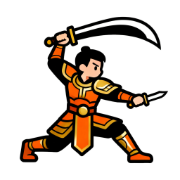
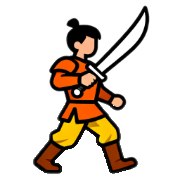
feat(web): 刀兵单刀立绘与砍击朝向/节奏修正
重做人类单手持刀立绘（哑光布甲）；砍击按左右定柄位与锋刃朝向，刀形收细并加快挥砍。

diff --git a/web/src/render.ts b/web/src/render.ts
@@ -497,7 +497,7 @@ function drawCurvedWhip(
   ctx.restore();
 }
 
-/** 弯刀：白刃 + 金护手 + 黑柄 + 金球；沿 +x 出尖，刃背向上弯 */
+/** 弯刀：白刃 + 金护手 + 黑柄 + 金球；沿 +x 出尖、柄在 -x；外凸锋刃在 +y（配合 scale(1,hand) 对齐劈砍前进侧） */
 function drawCurvedDao(ctx: CanvasRenderingContext2D, s: number, alpha: number) {
   if (alpha <= 0.02) return;
   const tipX = s * 1.02;
@@ -508,24 +508,24 @@ function drawCurvedDao(ctx: CanvasRenderingContext2D, s: number, alpha: number) 
   ctx.lineJoin = 'round';
   ctx.lineCap = 'round';
 
-  // 白刃：脊背高拱、刃口略平，尖端收拢
+  // 白刃：细长略弯；肚子比极细版稍鼓一点；+y 侧外凸锋刃，-y 侧刀背
   ctx.beginPath();
-  ctx.moveTo(guardX, -s * 0.015);
-  ctx.bezierCurveTo(s * 0.38, -s * 0.22, s * 0.72, -s * 0.26, tipX, -s * 0.02);
-  ctx.quadraticCurveTo(tipX + s * 0.02, 0, tipX - s * 0.02, s * 0.04);
-  ctx.bezierCurveTo(s * 0.62, s * 0.1, s * 0.32, s * 0.07, guardX, s * 0.05);
+  ctx.moveTo(guardX, -s * 0.032);
+  ctx.bezierCurveTo(s * 0.36, -s * 0.045, s * 0.7, -s * 0.055, tipX - s * 0.03, -s * 0.022);
+  ctx.quadraticCurveTo(tipX + s * 0.012, 0, tipX - s * 0.01, s * 0.02);
+  ctx.bezierCurveTo(s * 0.68, s * 0.145, s * 0.36, s * 0.12, guardX, s * 0.028);
   ctx.closePath();
   ctx.fillStyle = '#f5f7fb';
   ctx.fill();
   ctx.strokeStyle = '#1a1208';
-  ctx.lineWidth = Math.max(1.8, s * 0.045);
+  ctx.lineWidth = Math.max(1.5, s * 0.04);
   ctx.stroke();
-  // 刃口高光
+  // 刃口高光（锋刃一侧）
   ctx.strokeStyle = 'rgba(255,255,255,0.85)';
-  ctx.lineWidth = Math.max(1.2, s * 0.028);
+  ctx.lineWidth = Math.max(1.0, s * 0.022);
   ctx.beginPath();
-  ctx.moveTo(guardX + s * 0.04, s * 0.02);
-  ctx.bezierCurveTo(s * 0.4, s * 0.05, s * 0.7, s * 0.04, tipX - s * 0.06, s * 0.015);
+  ctx.moveTo(guardX + s * 0.04, s * 0.014);
+  ctx.bezierCurveTo(s * 0.4, s * 0.08, s * 0.7, s * 0.09, tipX - s * 0.08, s * 0.025);
   ctx.stroke();
 
   // 金护手
@@ -766,9 +766,10 @@ function drawWordTile(
     drawTierBadge(ctx, x + s * 0.42, y - s * 0.36, tier, Math.round(s * 0.3));
   }
 }
-// 营帐屋顶开合角度(弧度，0=闭合)：征兵时(summonAnimT 从 0 起)先逆时针掀开到 90°(竖起)，短暂保持(丝带飞出)，再顺时针合上。
+// 营帐屋顶开合角度(弧度，0=闭合)：征兵时(summonAnimT 从 0 起)先逆时针掀开到 90°(竖起)，保持至丝带飞完，再顺时针合上。
 function campRoofAngle(t: number): number {
-  const OPEN_END = 0.05, HOLD_END = 0.1375, CLOSE_END = 0.2, MAX = Math.PI / 2; // 最大90°；开合再加快1倍(总时长~0.2s)
+  // 与下方丝带左→右错开伸出对齐：末槽约 0.26s 才满长，屋顶稍晚再合
+  const OPEN_END = 0.05, HOLD_END = 0.32, CLOSE_END = 0.4, MAX = Math.PI / 2;
   if (t >= CLOSE_END) return 0; // 已合上(含 idle t=999)
   if (t < OPEN_END) return MAX * (t / OPEN_END); // 开：0→90°
   if (t < HOLD_END) return MAX; // 全开保持(令牌丝带飞入)
@@ -842,9 +843,10 @@ function drawTray(ctx: CanvasRenderingContext2D, b: Battle, ui: UiState) {
   ctx.moveTo(RIDGE_INSET, -roofH + 2); ctx.lineTo(campW - RIDGE_INSET, -roofH + 2);
   ctx.stroke();
   ctx.restore();
-  // 5 个候选槽：征兵丝带瞬间出现，再从「营」端缩短变细，消于槽位后出图标
-  const HOLD = 0.01;
-  const RETRACT_STAGGER = 0.08;
+  // 5 个候选槽：丝带从「营」左→右错开伸出，短暂满长后从营端收回，再出图标
+  const EXTEND_STAGGER = 0.045; // 相邻槽伸出起点延迟（左→右）
+  const EXTEND_DUR = 0.08;
+  const HOLD = 0.03;
   const RETRACT_DUR = 0.09;
   for (let i = 0; i < TUNING.traySize; i++) {
     const cx = TRAY_LEFT + i * TRAY_SLOT;
@@ -883,13 +885,20 @@ function drawTray(ctx: CanvasRenderingContext2D, b: Battle, ui: UiState) {
     const token = b.tray[i];
     if (token && ui.dragTrayIndex !== i) {
       const c = traySlotCenter(i);
-      const retractAt = HOLD + i * RETRACT_STAGGER;
+      const extendAt = i * EXTEND_STAGGER;
+      const fullAt = extendAt + EXTEND_DUR;
+      const retractAt = fullAt + HOLD;
       const t = b.summonAnimT;
-      if (t < retractAt) {
+      if (t < extendAt) {
+        // 尚未轮到本槽：不画丝带
+      } else if (t < fullAt) {
+        const u = (t - extendAt) / EXTEND_DUR; // 0→1 从营伸出
+        const ease = 1 - (1 - u) * (1 - u);
+        drawSummonRibbon(ctx, token, 0, Math.max(0.04, ease), 0.35 + 0.65 * ease, c, i);
+      } else if (t < retractAt) {
         drawSummonRibbon(ctx, token, 0, 1, 1, c, i);
       } else if (t < retractAt + RETRACT_DUR) {
         const u = (t - retractAt) / RETRACT_DUR; // 0→1 从营收向槽
-        // 长度从营端吃掉，同时整体变细（丝带慢慢变小）
         drawSummonRibbon(ctx, token, u, 1, 1 - u * 0.85, c, i);
       } else {
         const tokenSize = token.kind === 'word' ? CELL * 0.78 : TRAY_H - 16;
@@ -2790,27 +2799,29 @@ function drawFx(ctx: CanvasRenderingContext2D, b: Battle) {
         break;
       }
       case 'monkey': {
-        // 竖向砍：刀尖始终画面上→下劈落；只按攻击者在怪的左/右镜像，上下方位不扭转砍向
+        // 柄在攻击者一侧，尖朝怪挥砍；只看左右，不看上下
         const seed = ((f.from.c * 13 + f.from.r * 29) ^ (tier * 7)) | 0;
         const lane = (seed % 5) - 2;
         const dx = a.x - t.x;
-        // 从右侧来 → 右劈(顺时针)，从左侧来 → 左劈(逆时针)；纯上下时用微小水平差/种子兜底
-        const hand = Math.abs(dx) > 0.5 ? (dx > 0 ? 1 : -1) : (seed % 2 === 0 ? 1 : -1);
-        const daoS = CELL * (0.55 + tier * 0.05);
-        const snap = Math.min(1, prog / 0.4);
-        const ease = 1 - Math.pow(1 - snap, 2.6);
-        // 举起(尖朝上) → 劈落(尖朝下)：固定竖向约 180°，左右只偏 lean
-        const lean = 0.42;
-        const startAng = -Math.PI / 2 - hand * lean;
-        const sweep = Math.PI;
-        const chopAng = startAng + hand * sweep * ease;
+        // +1 人在右 → 柄在右、尖往左砍；-1 人在左 → 柄在左、尖往右砍
+        const side = Math.abs(dx) > 0.5 ? (dx > 0 ? 1 : -1) : (seed % 2 === 0 ? 1 : -1);
+        const daoS = CELL * (0.55 + tier * 0.05) * 0.9; // 相对初版缩小后再放大 1/8
+        // 前 22% 内完成挥砍，加速曲线更陡 → 看起来更利落
+        const snap = Math.min(1, prog / 0.22);
+        const ease = 1 - Math.pow(1 - snap, 3.4);
+        // 尖从「偏攻击者一侧举起」扫向另一侧（穿过怪）；柄始终更靠攻击者一侧
+        const lean = 0.7;
+        const sweep = Math.PI * 0.65;
+        const startAng = -Math.PI / 2 + side * lean; // 尖朝上并偏向人
+        const sweepSign = -side; // 人在右则逆时针往左砍，人在左则顺时针往右砍
+        const chopAng = startAng + sweepSign * sweep * ease;
         const fade =
-          prog < 0.5 ? Math.min(1, 0.4 + snap * 0.7) : Math.max(0, 1 - (prog - 0.5) / 0.5);
-        // 握点：始终在怪心略上方，只沿画面水平错开（不随攻击角旋转）
-        const gripX = t.x + hand * CELL * 0.05 + lane * CELL * 0.11;
-        const gripY = t.y - CELL * 0.1;
+          prog < 0.35 ? Math.min(1, 0.45 + snap * 0.65) : Math.max(0, 1 - (prog - 0.35) / 0.45);
+        // 握点偏向攻击者，柄在人那一侧
+        const gripX = t.x + side * CELL * 0.16 + lane * CELL * 0.08;
+        const gripY = t.y + CELL * 0.18;
         ctx.translate(gripX, gripY);
-        const ccw = hand < 0;
+        const ccw = sweepSign < 0;
         if (ease > 0.06 && fade > 0.05) {
           const trailR = daoS * 0.92;
           ctx.save();
@@ -2824,13 +2835,12 @@ function drawFx(ctx: CanvasRenderingContext2D, b: Battle) {
           ctx.globalAlpha = fade * 0.22 * ease;
           ctx.strokeStyle = 'rgba(255,255,255,0.85)';
           ctx.lineWidth = Math.max(1.2, daoS * 0.035);
-          const tipFrom = chopAng - hand * sweep * 0.22;
+          const tipFrom = chopAng - sweepSign * sweep * 0.22;
           ctx.beginPath();
           ctx.arc(0, 0, trailR, tipFrom, chopAng, ccw);
           ctx.stroke();
           ctx.restore();
         }
-        // 命中短斩痕：沿当前刀向，强化竖劈读感
         if (ease > 0.72 && ease < 0.98 && fade > 0.2) {
           const hitA = (ease - 0.72) / 0.26;
           ctx.save();
@@ -2848,7 +2858,9 @@ function drawFx(ctx: CanvasRenderingContext2D, b: Battle) {
         }
         ctx.save();
         ctx.rotate(chopAng);
-        ctx.scale(1, hand);
+        // 锋刃(+y)对齐角速度前进侧，避免刀背砍
+        ctx.scale(1, sweepSign);
+        // 柄在 -x：尖朝怪时柄落在人一侧
         ctx.translate(-daoS * 0.08, 0);
         drawCurvedDao(ctx, daoS, fade);
         ctx.restore();

diff --git a/web/src/battle.ts b/web/src/battle.ts
@@ -1893,6 +1893,7 @@ export class Battle {
   /** 兵种攻击特效时长：骑基础再慢一倍(1.2s)，随阶加快；其它约 0.3s 起 */
   private attackFxTtl(type: UnitType, tier: number): number {
     if (type === 'cavalry') return 1.2 / (1 + (tier - 1) * 0.22);
+    if (type === 'monkey') return 0.2 + (tier - 1) * 0.02; // 刀砍更快一截
     return 0.3 + (tier - 1) * 0.04;
   }
 
